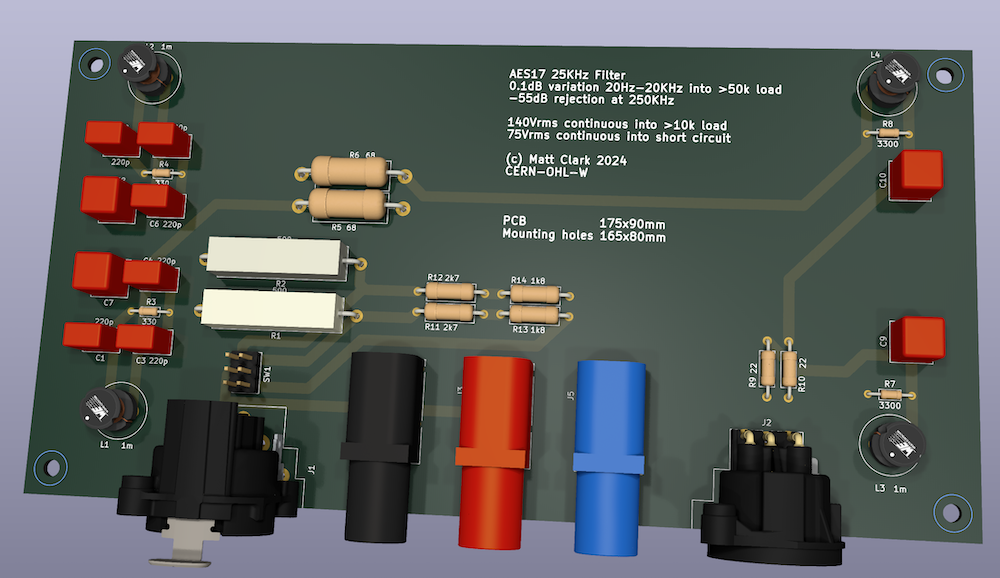
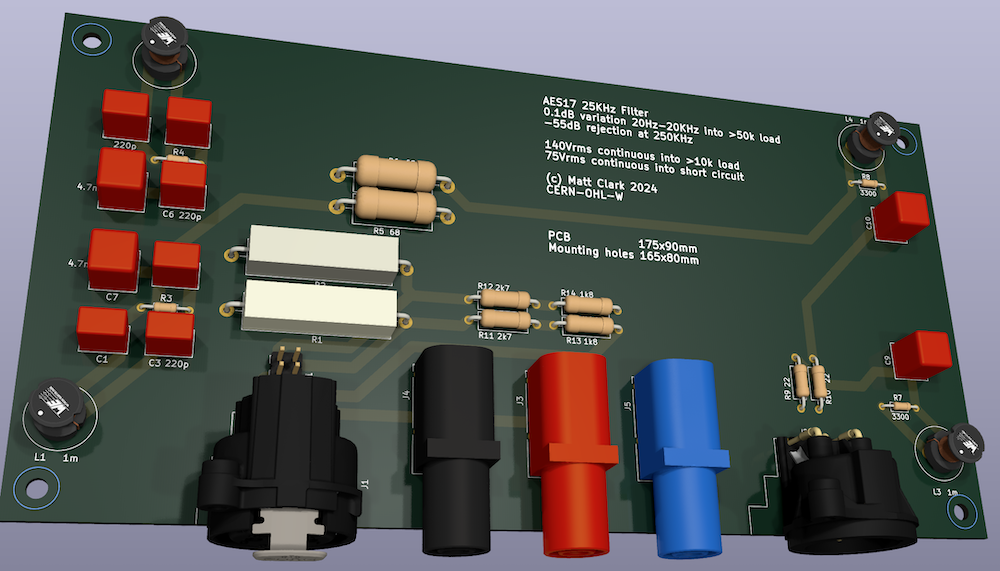
moved L1 and L3 further away from XLR sockets

diff --git a/README.md b/README.md
@@ -46,7 +46,7 @@ The simulated FR with a 100k load is on target, with -51mdBV to +51mdBV varitati
 
 # Design discussion
 
-See the design on [CircuitLab](https://www.circuitlab.com/editor/#?id=9zaq989z472b). It is inspired by the AUX-0025 but differs in a few ways.  The component values are more standard, and are reused across the design to reduce the number of different components needed.  Capacitor and inductor tolerances are 5% instead of 2.5%.  The matching to the AUX-0025 response curve is nonetheless very close.
+See the design on [CircuitLab](https://www.circuitlab.com/editor/#?id=9zaq989z472b). It is inspired by the AUX-0025 but differs in a few ways.  The component values are more standard, and are reused across the design to reduce the number of different components needed.  Inductor tolerances are 5% instead of 2.5%, but resistors are all 1% and the 220p capacitors are 2.5%.  The matching to the AUX-0025 response curve is very close.
 
 A set of pad-down resistors allows for convenient high voltage measurements, by default giving -20dB of gain.
 
